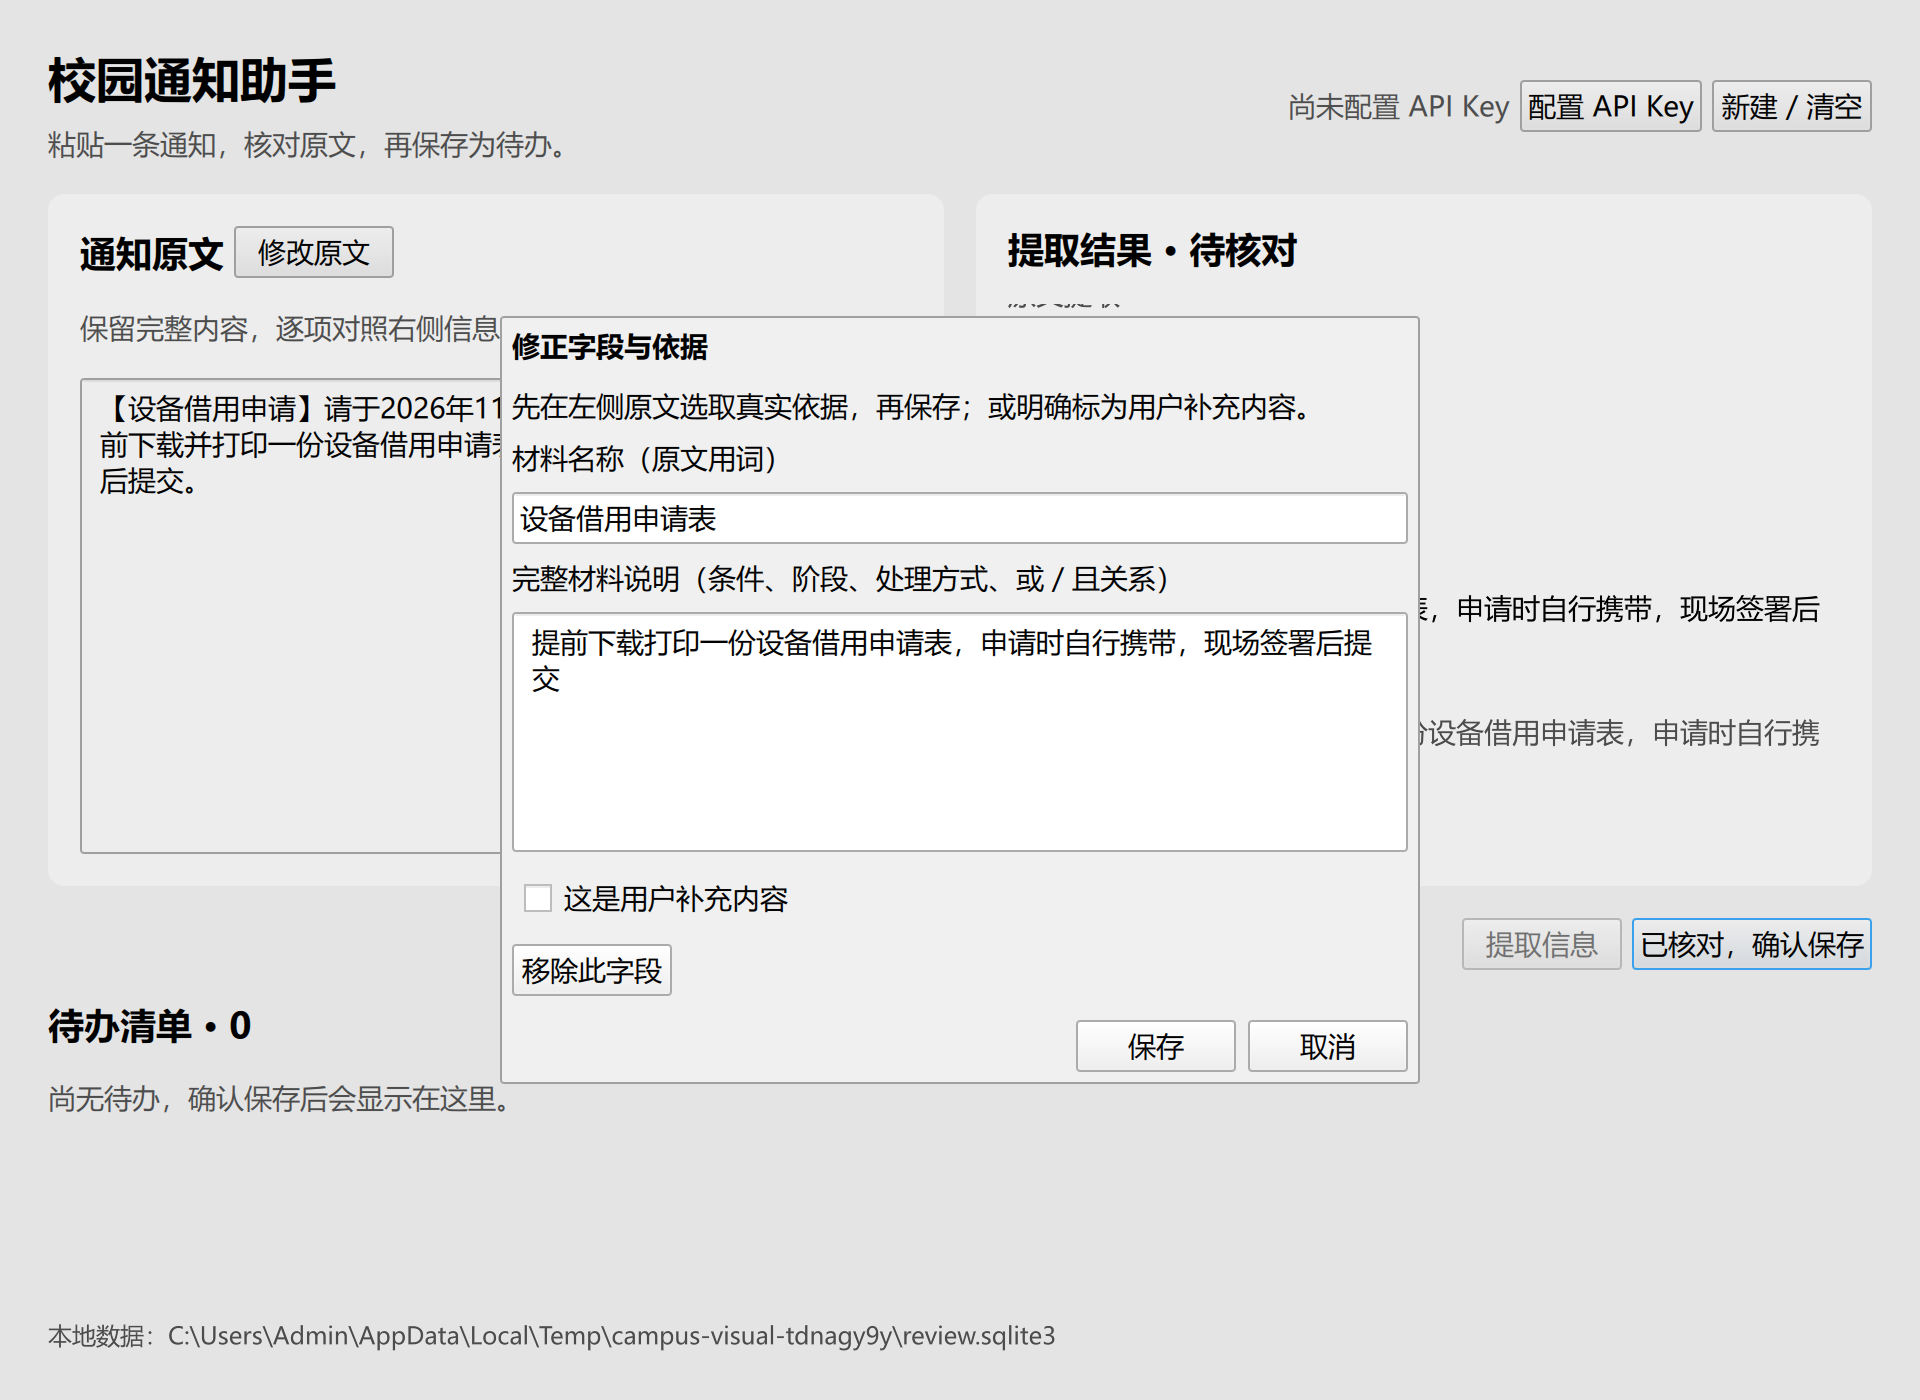
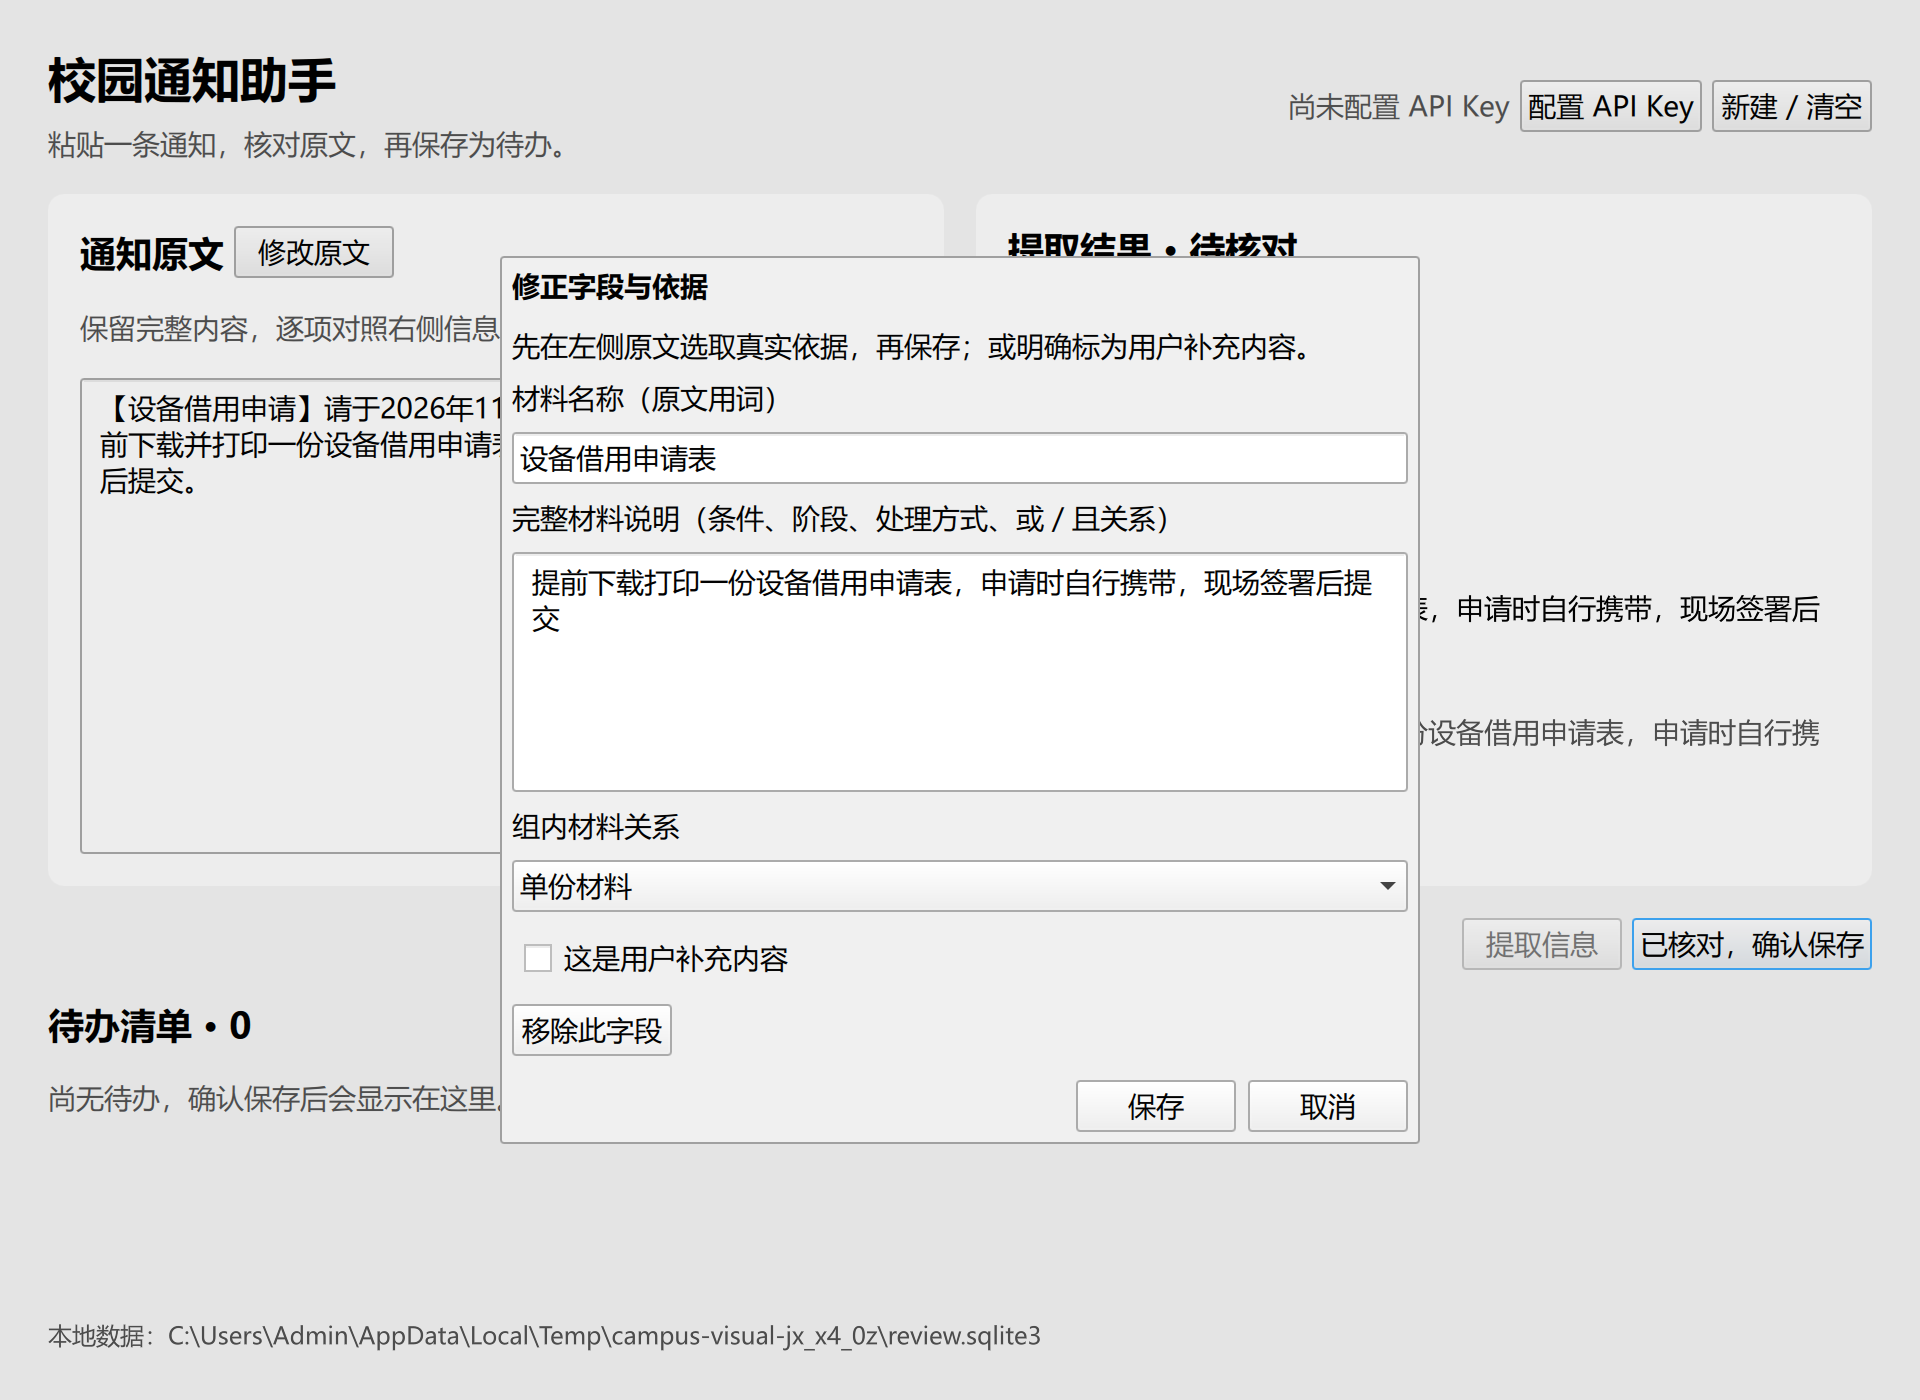
feat: retain material relationship states and expose omitted relations for review

diff --git a/src/campus_notification_assistant/qml/Main.qml b/src/campus_notification_assistant/qml/Main.qml
@@ -53,6 +53,7 @@ ApplicationWindow {
         property string content: ""
         property string evidence: ""
         property string requirement: ""
+        property string materialRelation: ""
         property string requirementName: ""
         property string valueName: ""
         property string evidenceName: ""
@@ -94,6 +95,7 @@ ApplicationWindow {
                 correctionDialog.fieldKey = citedField.fieldKey
                 correctionValue.text = citedField.content
                 correctionRequirement.text = citedField.requirement
+                correctionRelation.currentIndex = Math.max(0, correctionRelation.indexOfValue(citedField.materialRelation || "uncertain"))
                 supplement.checked = false
                 correctionDialog.open()
             }
@@ -230,6 +232,7 @@ ApplicationWindow {
                                         statusLabel: modelData.label
                                         content: modelData.value
                                         requirement: modelData.requirement || ""
+                                        materialRelation: modelData.relation || ""
                                         requirementName: "materialRequirement_" + index
                                         valueName: "materialValue_" + index
                                         evidenceName: "materialEvidence_" + index
@@ -386,6 +389,22 @@ ApplicationWindow {
                     Accessible.name: "完整材料说明"
                 }
             }
+            Label { visible: correctionDialog.material; text: "组内材料关系" }
+            ComboBox {
+                id: correctionRelation
+                objectName: "correctionRelation"
+                visible: correctionDialog.material
+                Layout.fillWidth: true
+                textRole: "text"
+                valueRole: "value"
+                Accessible.name: "组内材料关系"
+                model: [
+                    {text: "待核对", value: "uncertain"},
+                    {text: "单份材料", value: "single"},
+                    {text: "任选其一", value: "any"},
+                    {text: "全部需要", value: "all"}
+                ]
+            }
             CheckBox { id: supplement; objectName: "supplement"; text: "这是用户补充内容" }
             Button {
                 text: "移除此字段"
@@ -393,7 +412,7 @@ ApplicationWindow {
                 onClicked: { backend.correctField(correctionDialog.fieldKey, "", false, true, 0, 0); correctionDialog.close() }
             }
         }
-        onAccepted: backend.correctField(fieldKey, correctionValue.text, supplement.checked, false, sourceInput.selectionStart, sourceInput.selectionEnd, correctionRequirement.text)
+        onAccepted: backend.correctField(fieldKey, correctionValue.text, supplement.checked, false, sourceInput.selectionStart, sourceInput.selectionEnd, correctionRequirement.text, correctionRelation.currentValue)
     }
     Dialog {
         id: sourceEditDialog

diff --git a/tests/test_materials.py b/tests/test_materials.py
@@ -115,6 +115,9 @@ def test_qml_material_requirement_is_visible_editable_and_reloaded(qapp, qtbot, 
         control(root, "correctionRequirement").setProperty(
             "text", "申请时携带两证中的任一原件，供核验"
         )
+        relation_choice = control(root, "correctionRelation")
+        relation_choice.setProperty("currentIndex", 2)
+        assert relation_choice.property("currentText") == "任选其一"
         control(root, "correctionDialog").accept()
         qtbot.waitUntil(
             lambda: (
@@ -127,6 +130,7 @@ def test_qml_material_requirement_is_visible_editable_and_reloaded(qapp, qtbot, 
         qtbot.waitUntil(lambda: len(service.list_todos()) == 1)
         qtbot.waitUntil(lambda: not controller.busy)
         saved_id = service.list_todos()[0].id
+        assert service.get_todo(saved_id).item.materials[0].relation == "any"
     finally:
         controller.wait_for_workers()
         root.setProperty("allowClose", True)
@@ -145,6 +149,7 @@ def test_qml_material_requirement_is_visible_editable_and_reloaded(qapp, qtbot, 
         click(root2, "materialValue_0")
         qtbot.waitUntil(lambda: control(root2, "sourceInput").property("selectedText") == evidence)
         assert not control(root2, "confirmButton").property("enabled")
+        assert "组内任选其一" in controller2.resultData["materials"][0]["label"]
     finally:
         root2.setProperty("allowClose", True)
         root2.close()
@@ -224,3 +229,41 @@ def test_missing_deadline_citation_keeps_original_words_but_blocks_save(
     )
     saved = service.confirm(draft.id)
     assert NotificationService(service.database).get_todo(saved.id).item.deadline.raw == raw
+
+
+def test_omitted_material_relation_stays_pending_after_save_and_restart(qapp, tmp_path):
+    from campus_notification_assistant.app import create_engine
+
+    source = "请申请器材卡。申请时自行携带学生证/校园卡原件到窗口核验。"
+    service = service_for(
+        tmp_path,
+        source,
+        {
+            "action": {"value": "申请器材卡", "evidence": "请申请器材卡。"},
+            "materials": [
+                {
+                    "value": "学生证/校园卡原件",
+                    "requirement": "申请时自行携带学生证/校园卡原件到窗口核验",
+                    "evidence": "申请时自行携带学生证/校园卡原件到窗口核验。",
+                }
+            ],
+        },
+    )
+    draft = service.extract(api_key="test")
+    assert draft.item.materials[0].relation is None
+    saved = service.confirm(draft.id)
+    restarted = NotificationService(service.database)
+    engine, controller = create_engine(restarted)
+    root = engine.rootObjects()[0]
+    try:
+        controller.openTodo(saved.id)
+        assert "材料关系待核对（未记录）" in controller.resultData["materials"][0]["label"]
+        assert restarted.get_todo(saved.id).item.materials[0].relation is None
+        assert restarted.get_todo(saved.id).item.materials[0].requirement == (
+            "申请时自行携带学生证/校园卡原件到窗口核验"
+        )
+    finally:
+        root.setProperty("allowClose", True)
+        root.close()
+        engine.deleteLater()
+        qapp.processEvents()

diff --git a/src/campus_notification_assistant/service.py b/src/campus_notification_assistant/service.py
@@ -16,7 +16,7 @@ from pydantic import ValidationError
 from .credentials import DEFAULT_NAMESPACE, Credentials
 from .deepseek import DeepSeek
 from .errors import ServiceError, StaleRequestError
-from .models import CitedText, Deadline, Draft, Item, Material, Todo
+from .models import CitedText, Deadline, Draft, Item, Material, MaterialRelation, Todo
 
 Citation = TypeVar("Citation", CitedText, Deadline, Material)
 FULL_DATE = re.compile(r"(\d{4})[年/\-](\d{1,2})[月/\-](\d{1,2})(?:日)?")
@@ -250,6 +250,7 @@ class NotificationService:
         user_supplied: bool = False,
         remove: bool = False,
         requirement: str | None = None,
+        relation: MaterialRelation | None = None,
     ) -> Draft:
         with self._state_lock:
             if self.draft is None or self.draft.id != draft_id or self._confirmed_id == draft_id:
@@ -303,6 +304,13 @@ class NotificationService:
                 else:
                     replacement["value"] = value
                     if isinstance(old, Material):
+                        if relation is not None and relation not in {
+                            "single",
+                            "all",
+                            "any",
+                            "uncertain",
+                        }:
+                            raise ServiceError("材料关系无效，请选择真实关系或待核对。")
                         replacement["requirement"] = (
                             requirement.strip()
                             if requirement is not None
@@ -310,6 +318,10 @@ class NotificationService:
                             if value.strip() == old.value
                             else ""
                         )
+                        if relation is not None:
+                            replacement["relation"] = relation
+                        elif value.strip() != old.value:
+                            replacement["relation"] = None
             if field.startswith("materials."):
                 entries = list(data["materials"])
                 if remove:

diff --git a/src/campus_notification_assistant/controller.py b/src/campus_notification_assistant/controller.py
@@ -1,12 +1,12 @@
 """Qt 适配层：QML 只绑定状态并调用应用服务操作。"""
 
 from collections.abc import Callable
-from typing import Any
+from typing import Any, cast
 
 from PySide6.QtCore import Property, QObject, QRunnable, QThreadPool, Signal, Slot
 
 from .errors import ServiceError
-from .models import CitedText, Deadline, Material, Todo
+from .models import CitedText, Deadline, Material, MaterialRelation, Todo
 from .service import NotificationService
 
 
@@ -112,6 +112,8 @@ class Controller(QObject):
                 label += " · 待核对：无效或位置不明的原文依据"
             if isinstance(field, Material) and not field.requirement.strip():
                 label += " · 材料说明未记录，请对照原文核对"
+            if isinstance(field, Material) and field.relation_label:
+                label += " · " + field.relation_label
             if isinstance(field, Deadline):
                 data["value"] = field.date.isoformat() if field.date else field.raw
                 if field.status == "missing":
@@ -189,6 +191,7 @@ class Controller(QObject):
 
     @Slot(str, str, bool, bool, int, int)
     @Slot(str, str, bool, bool, int, int, str)
+    @Slot(str, str, bool, bool, int, int, str, str)
     def correctField(
         self,
         name: str,
@@ -198,6 +201,7 @@ class Controller(QObject):
         start: int,
         end: int,
         requirement: str | None = None,
+        relation: str = "",
     ) -> None:
         if self._busy or self._selected or self.service.draft is None:
             return
@@ -218,6 +222,7 @@ class Controller(QObject):
                 evidence_start=python_index(start),
                 evidence_end=python_index(end),
                 requirement=requirement,
+                relation=cast(MaterialRelation, relation) if relation else None,
             )
             self._message = "修正已更新，请继续核对。"
         except ServiceError as exc:

diff --git a/src/campus_notification_assistant/models.py b/src/campus_notification_assistant/models.py
@@ -6,6 +6,7 @@ from typing import Annotated, Literal
 from pydantic import BaseModel, ConfigDict, Field, StringConstraints, field_validator
 
 NonBlank = Annotated[str, StringConstraints(strip_whitespace=True, min_length=1)]
+MaterialRelation = Literal["single", "all", "any", "uncertain"]
 
 
 class ValueModel(BaseModel):
@@ -25,6 +26,17 @@ class Material(CitedText):
     # One material or choice group. Its citation supports the complete requirement.
     # Empty for legacy records; never infer missing conditions on load.
     requirement: str = ""
+    relation: MaterialRelation | None = None
+
+    @property
+    def relation_label(self) -> str:
+        return {
+            None: "材料关系待核对（未记录）",
+            "uncertain": "材料关系待核对",
+            "any": "组内任选其一",
+            "all": "组内全部需要",
+            "single": "",
+        }[self.relation]
 
 
 class Deadline(ValueModel):
